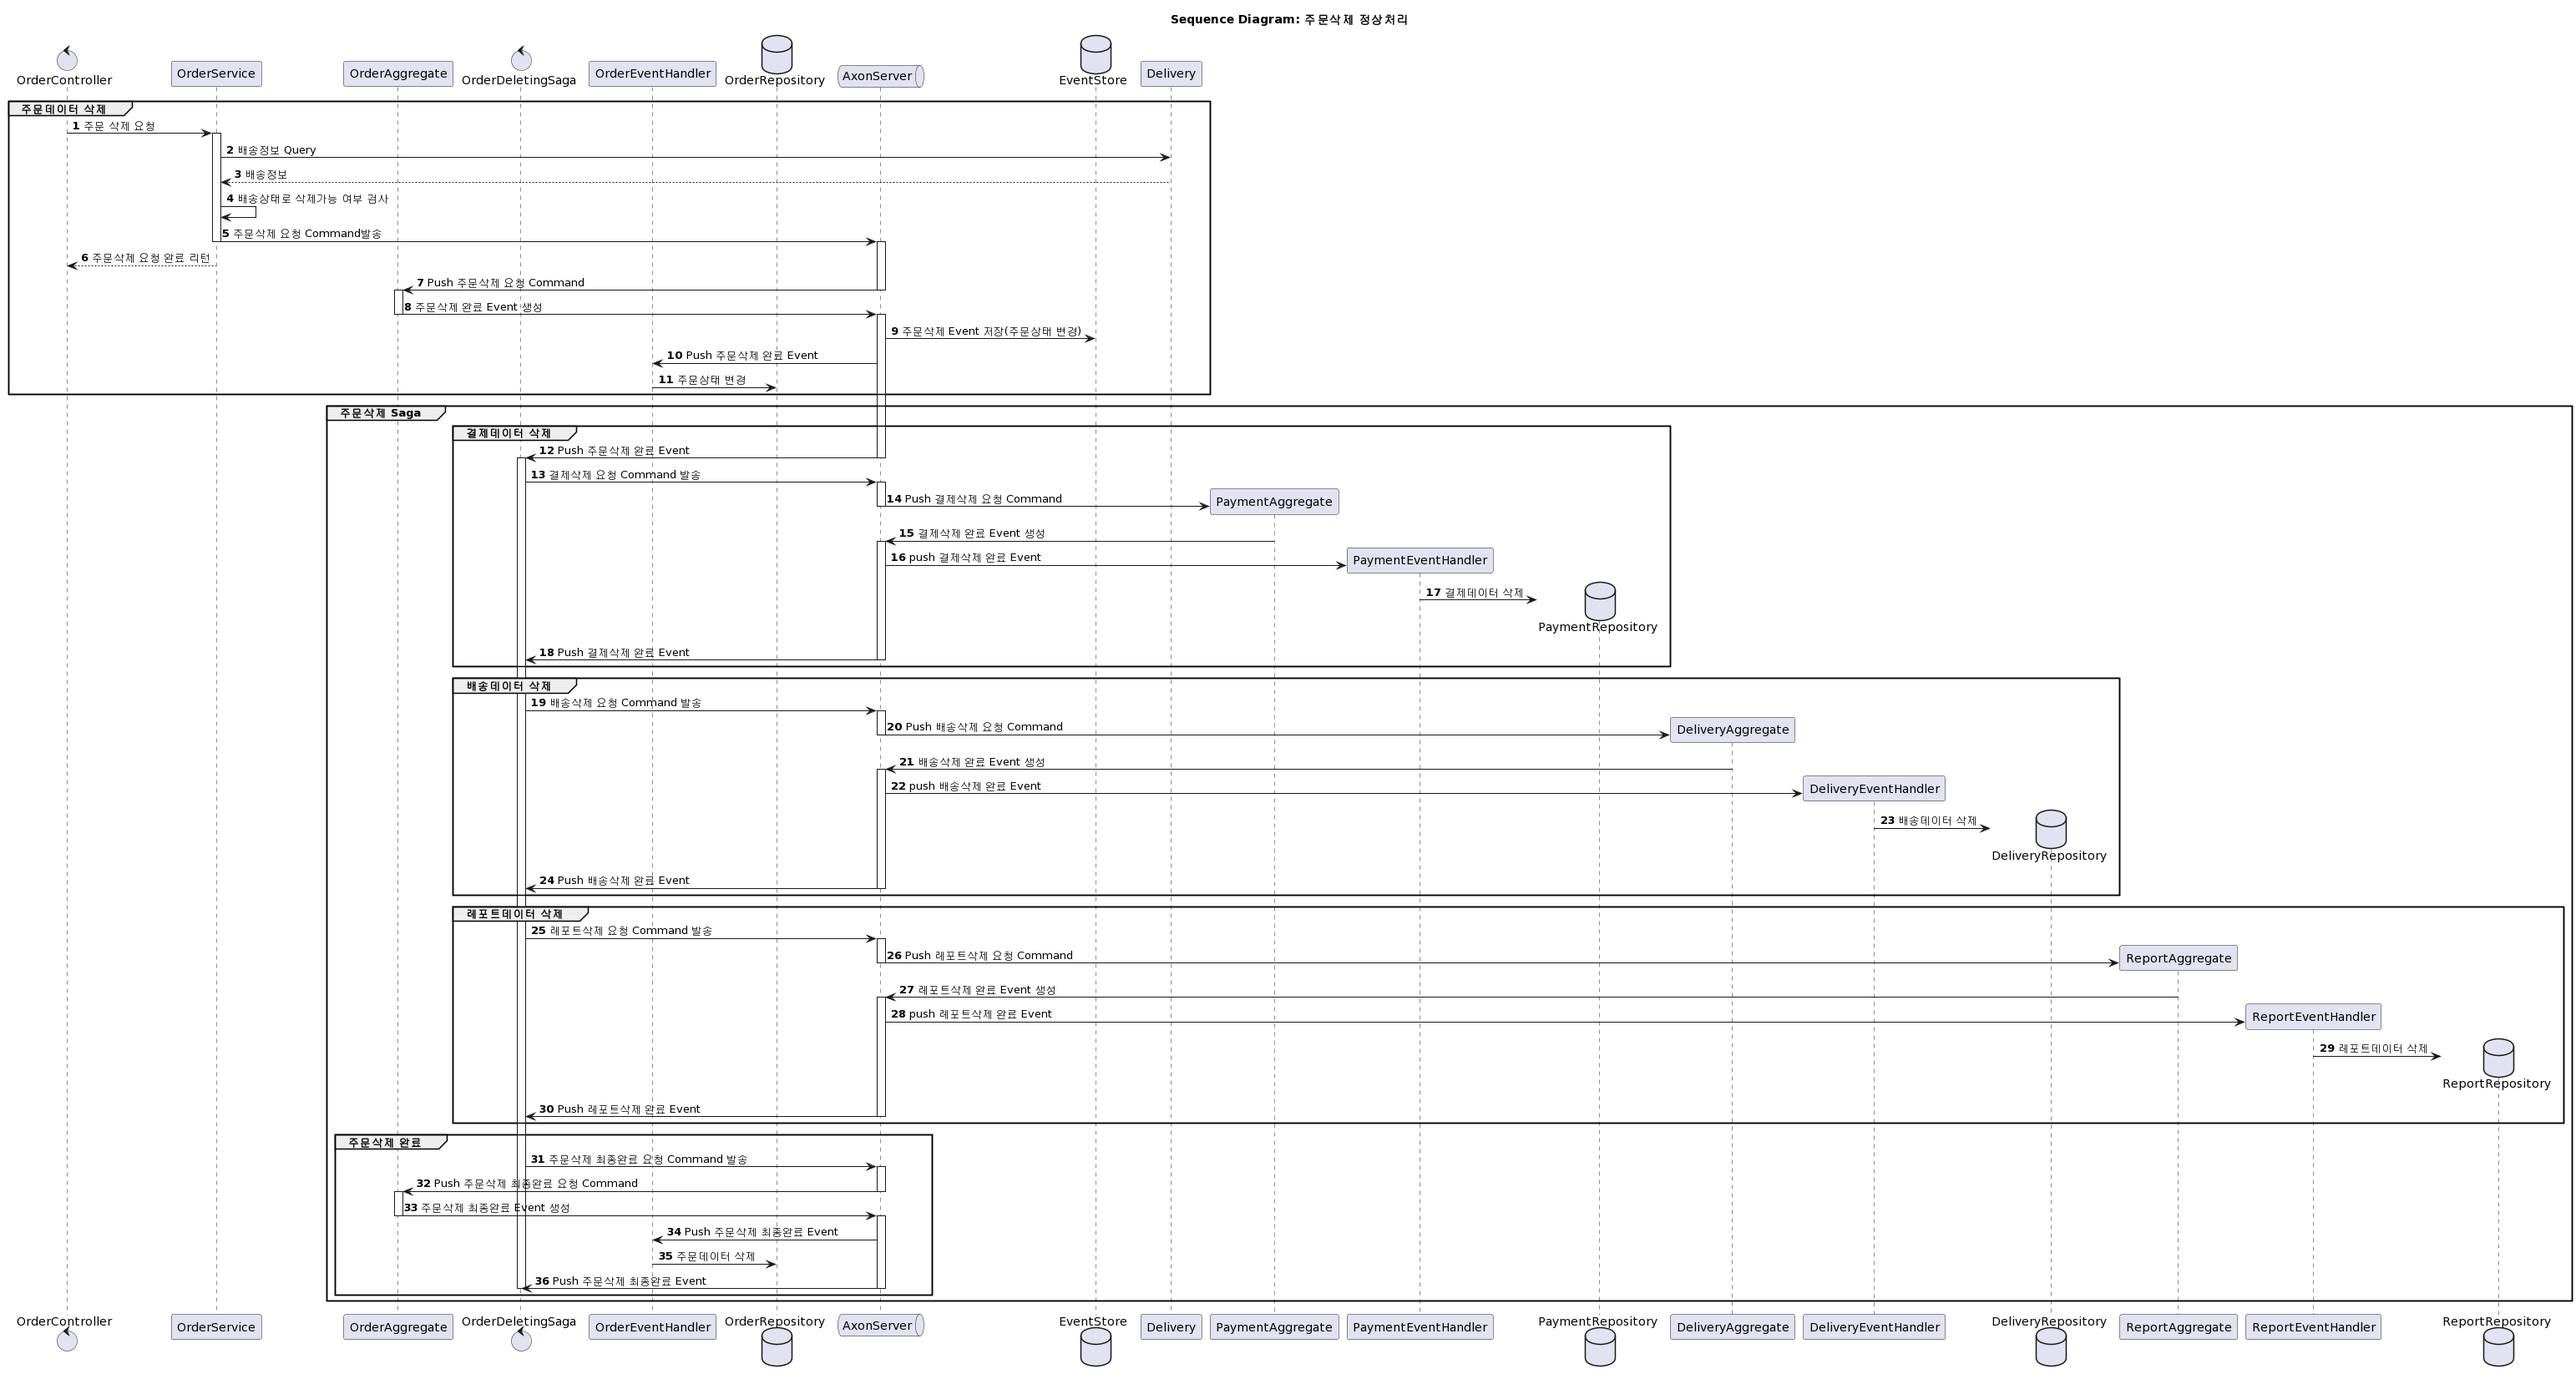
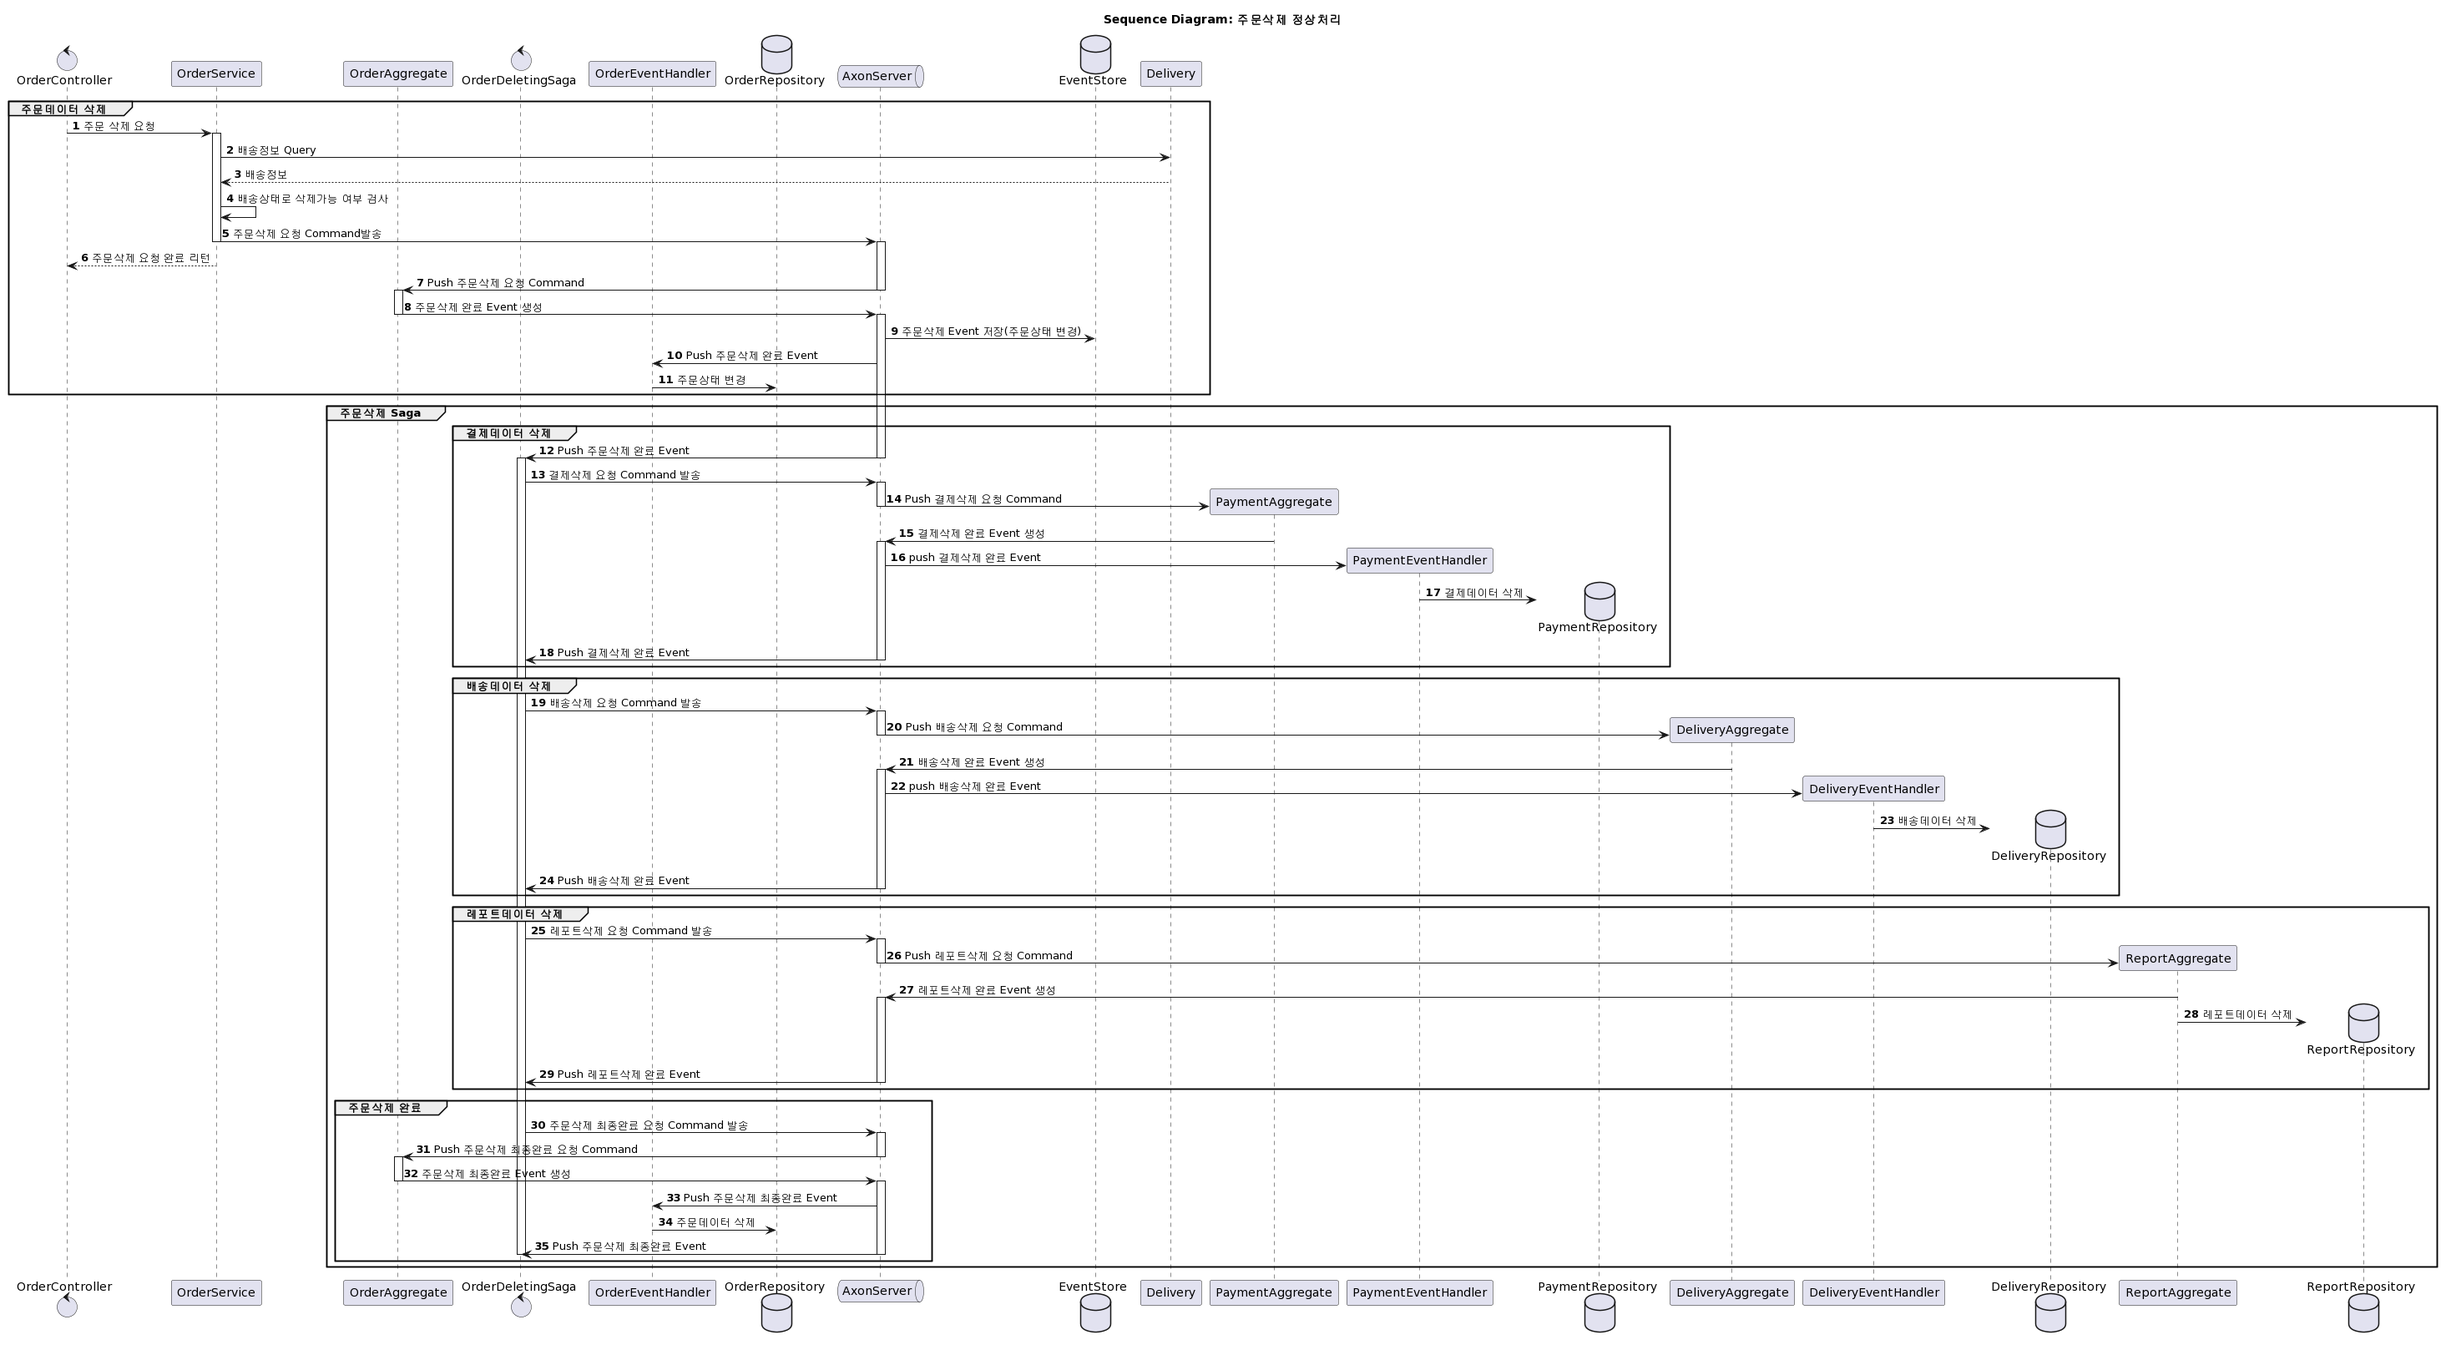
change delete sequence diagram

diff --git a/order/src/main/java/com/agilemall/order/aggregate/OrderAggregate.java b/order/src/main/java/com/agilemall/order/aggregate/OrderAggregate.java
@@ -21,7 +21,6 @@ import com.agilemall.common.command.create.CancelCreateOrderCommand;
 import com.agilemall.common.dto.OrderDTO;
 import com.agilemall.common.dto.OrderDetailDTO;
 import com.agilemall.common.dto.OrderStatusEnum;
-import com.agilemall.common.events.delete.DeletedDeliveryEvent;
 import com.agilemall.order.command.*;
 import com.agilemall.order.entity.OrderDetail;
 import com.agilemall.order.entity.OrderDetailIdentity;
@@ -278,8 +277,8 @@ public class OrderAggregate {
         AggregateLifecycle.apply(new DeletedOrderEvent(deleteOrderCommand.getOrderId()));
     }
     @EventSourcingHandler
-    private void on(DeletedDeliveryEvent event) {
-        log.info("[@EventSourcingHandler] Executing <DeletedDeliveryEvent> for Order Id: {}", event.getOrderId());
+    private void on(DeletedOrderEvent event) {
+        log.info("[@EventSourcingHandler] Executing <DeletedOrderEvent> for Order Id: {}", event.getOrderId());
         this.orderStatus = OrderStatusEnum.ORDER_CANCLLED.value();
     }
 
@@ -291,7 +290,7 @@ public class OrderAggregate {
     @EventSourcingHandler
     private void on(CompletedDeleteOrderEvent event) {
         log.info("[@EventSourcingHandler] Executing <CompletedDeleteOrderEvent> for Order Id: {}", event.getOrderId());
-
+        AggregateLifecycle.markDeleted();
     }
 
     @CommandHandler

diff --git a/report/src/main/java/com/agilemall/report/events/ReportEventsHandler.java b/report/src/main/java/com/agilemall/report/events/ReportEventsHandler.java
@@ -28,25 +28,6 @@ public class ReportEventsHandler {
         this.reportRepository = reportRepository;
     }
 
-    @EventHandler
-    private void on(DeletedReportEvent event) {
-        log.info("[@EventHandler] Handle <DeletedReportEvent> for Order Id: {}", event.getOrderId());
-
-        Optional<Report> optReport = reportRepository.findById(event.getReportId());
-        if(optReport.isEmpty()) {
-            log.info("Can't find Report info for Order Id: {}", event.getOrderId());
-            eventGateway.publish(new FailedDeleteReportEvent(event.getReportId(), event.getOrderId()));
-            return;
-        }
-
-        try {
-            reportRepository.delete(optReport.get());
-        } catch(Exception e) {
-            log.error(e.getMessage());
-            eventGateway.publish(new FailedDeleteReportEvent(event.getReportId(), event.getOrderId()));
-        }
-    }
-
     /*
     - 목적: Order데이터 변경 시 Update Report using CQRS패턴
     */

diff --git a/delivery/src/main/java/com/agilemall/delivery/aggregate/DeliveryAggregate.java b/delivery/src/main/java/com/agilemall/delivery/aggregate/DeliveryAggregate.java
@@ -120,7 +120,6 @@ public class DeliveryAggregate {
 
 
     //================== 배송 정보 삭제 요청 Command 처리 =====================
-
     @CommandHandler
     private void handle(DeleteDeliveryCommand deleteDeliveryCommand) {
         log.info("[@EventSourcingHandler] Executing DeleteDeliveryCommand for Delivery Id : {}", deleteDeliveryCommand.getDeliveryId());
@@ -131,7 +130,8 @@ public class DeliveryAggregate {
     @EventSourcingHandler
     private void on(DeletedDeliveryEvent event) {
         log.info("[@EventSourcingHandler] Executing DeletedPaymentEvent for Delivery Id : {}", event.getDeliveryId());
-        this.deliveryStatus = DeliveryStatusEnum.ORDER_CANCLLED.value();
+        //this.deliveryStatus = DeliveryStatusEnum.ORDER_CANCLLED.value();
+        AggregateLifecycle.markDeleted();
     }
 
     @CommandHandler

diff --git a/payment/src/main/java/com/agilemall/payment/aggregate/PaymentAggregate.java b/payment/src/main/java/com/agilemall/payment/aggregate/PaymentAggregate.java
@@ -181,7 +181,8 @@ public class PaymentAggregate {
     private void on(DeletedPaymentEvent event) {
         log.info("[@EventSourcingHandler] Executing DeletedPaymentEvent for Order Id: {} and Payment Id: {}",
                 event.getOrderId(), event.getPaymentId());
-        this.paymentStatus = PaymentStatusEnum.ORDER_CANCLLED.value();
+        //this.paymentStatus = PaymentStatusEnum.ORDER_CANCLLED.value();
+        AggregateLifecycle.markDeleted();
     }
 
     @CommandHandler

diff --git a/report/src/main/java/com/agilemall/report/entity/Report.java b/report/src/main/java/com/agilemall/report/entity/Report.java
@@ -149,5 +149,6 @@ public class Report implements Serializable {
         log.info("[@CommandHandler] Handle <DeleteReportCommand> for Order Id: {}", deleteReportCommand.getOrderId());
 
         AggregateLifecycle.apply(new DeletedReportEvent(deleteReportCommand.getReportId(), deleteReportCommand.getOrderId()));
+        AggregateLifecycle.markDeleted();
     }
 }
